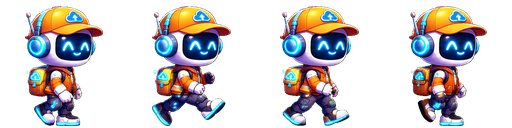
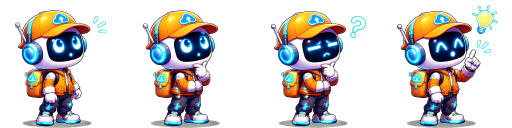
feat(assets): replace the seven weak character sheets
All 36 sheets are now distinct images. Previously 31 filled 36 slots, so infra
looked the same working, resting and celebrating, and deploy the same across
four states. No two files share a hash now.

The files arrived unnamed, so each was matched to its slot by looking: human
in a yellow hard hat for infra, visored robot for deploy, silver hair and lab
coat for research; tablet and a server hologram for work, question mark and
lightbulb for think, relaxed stance for rest; and the two walks by which way
the character faces.

The research walks are the real fix — a genuine side-profile stride instead of
six near-identical front-facing poses.

Also records something the tooling got wrong three times. Three versions of
the leg-movement check were written and each gave a wrong answer on a real
sheet: whole-silhouette width missed a stride hidden behind an arm holding a
laptop (2% on a good walk); bottom-third width missed one hidden under a long
lab coat (1.4%); bottom-third shape comparison scores the OLD static research
walk at 0.237, level with walks that genuinely stride.

The numbers stay — they catch repeated frames reliably, which is a different
and answerable question — but they no longer pretend to judge a walk. That is
confirmed by converting the sheet and watching the legs, which was done for
every sheet called good.

diff --git a/tools/assetaudit/main.go b/tools/assetaudit/main.go
@@ -283,34 +283,31 @@ func analyseFrames(r *Report, img *image.NRGBA, bg color.NRGBA) {
 	if maxW > 0 {
 		r.ShapeSpread = round(float64(maxW-minW)/float64(maxW), 3)
 	}
-	// Leg movement, measured on the bottom third of each frame only.
+	// Leg movement, on the bottom third of each frame.
 	//
-	// Whole-silhouette width is the obvious proxy and it is wrong here: a
-	// character carrying a laptop has an arm that holds the outline steady
-	// while the legs stride underneath. Measured on a real side-profile walk
-	// the whole body varies 2% while the legs vary 20%. Looking only below
-	// the knee line answers the question actually being asked.
-	legMin, legMax := 1<<30, 0
+	// Two earlier attempts at this were wrong in opposite directions and both
+	// were caught by looking at the picture afterwards:
+	//
+	//   - whole-silhouette width: a character carrying a laptop has an arm
+	//     that holds the outline steady while the legs stride underneath, so
+	//     a real walk scored 2% and looked broken.
+	//   - bottom-third bounding-box WIDTH: a character in a long coat keeps a
+	//     constant hem width while the legs move inside it, so a real walk
+	//     scored 1.4% and again looked broken.
+	//
+	// What survives both is comparing the bottom third as a SHAPE between
+	// frames — how much the leg pixels actually move — rather than measuring
+	// how wide they happen to be.
+	legMax := 0.0
 	for i := 0; i < n; i++ {
-		if boxes[i].Empty() {
-			continue
-		}
-		b := boxes[i]
-		legs := image.Rect(b.Min.X, b.Min.Y+b.Dy()*2/3, b.Max.X, b.Max.Y)
-		lb := contentBounds(mask, legs)
-		if lb.Empty() {
-			continue
-		}
-		if lb.Dx() < legMin {
-			legMin = lb.Dx()
-		}
-		if lb.Dx() > legMax {
-			legMax = lb.Dx()
+		for j := i + 1; j < n; j++ {
+			if boxes[i].Empty() || boxes[j].Empty() {
+				continue
+			}
+			legMax = math.Max(legMax, frameDistance(mask, bottomThird(boxes[i]), bottomThird(boxes[j])))
 		}
 	}
-	if legMax > 0 {
-		r.LegSpread = round(float64(legMax-legMin)/float64(legMax), 3)
-	}
+	r.LegSpread = round(legMax, 3)
 
 	if !r.FramesDiffer {
 		r.Notes = append(r.Notes, "repeated frames: identical in both shape and colour")
@@ -318,6 +315,11 @@ func analyseFrames(r *Report, img *image.NRGBA, bg color.NRGBA) {
 	if r.BleedsAcross {
 		r.Notes = append(r.Notes, "content touches a cell edge: the frame grid does not match the art")
 	}
+}
+
+// bottomThird is the part of a frame the legs occupy.
+func bottomThird(b image.Rectangle) image.Rectangle {
+	return image.Rect(b.Min.X, b.Min.Y+b.Dy()*2/3, b.Max.X, b.Max.Y)
 }
 
 // frameDistance compares two frames by resampling both to a small grid of

diff --git a/docs/audit/spriteQaReport.md b/docs/audit/spriteQaReport.md
@@ -94,3 +94,41 @@ structural respect. The weaknesses above are "less lively than intended", not
 
 What to re-request: `ch-research-walkL/walkR` with an actual stride, and
 distinct poses for the seven duplicated infra/deploy states.
+
+---
+
+# Update, 2026-11-07: the seven re-renders
+
+All seven weak slots were replaced. Identified by looking at them — the files
+arrived unnamed, so each was matched to a slot by character and pose: human in
+a yellow hard hat for infra, visored robot for deploy, silver hair and a lab
+coat for research; tablet and server hologram for `work`, question mark and
+lightbulb for `think`, relaxed stance for `rest`; and the walks by which way
+the character faces.
+
+| Slot | What it fixes |
+|---|---|
+| `ch-research-walkL` / `walkR` | a real side-profile stride, replacing six near-identical front-facing poses |
+| `ch-infra-rest`, `ch-infra-work` | distinct poses; infra no longer looks the same working, resting and celebrating |
+| `ch-deploy-rest`, `think`, `work` | distinct poses; deploy no longer identical across four states |
+
+**All 36 sheets are now distinct images.** Previously 31 images filled 36
+slots; no two files share a hash.
+
+## On the leg-movement metric: it is a hint, not a verdict
+
+Three versions of this check were written and **all three gave a wrong answer
+on a real sheet**, each caught by looking at the picture afterwards:
+
+1. **Whole-silhouette width.** A character carrying a laptop has an arm that
+   holds the outline steady while the legs stride. A good walk scored 2%.
+2. **Bottom-third bounding-box width.** A character in a long lab coat keeps a
+   constant hem width while the legs move inside it. A good walk scored 1.4%.
+3. **Bottom-third shape comparison.** Scores the *old* static research walk at
+   0.237 — the same range as walks that genuinely stride.
+
+The numbers are still recorded because they catch the obvious cases, and a
+frame that is byte-identical to its neighbour is caught reliably by the shape
+AND colour test. But **walk quality in this project is confirmed by opening
+the converted sheet and watching the legs**, and every sheet called good above
+was looked at.
